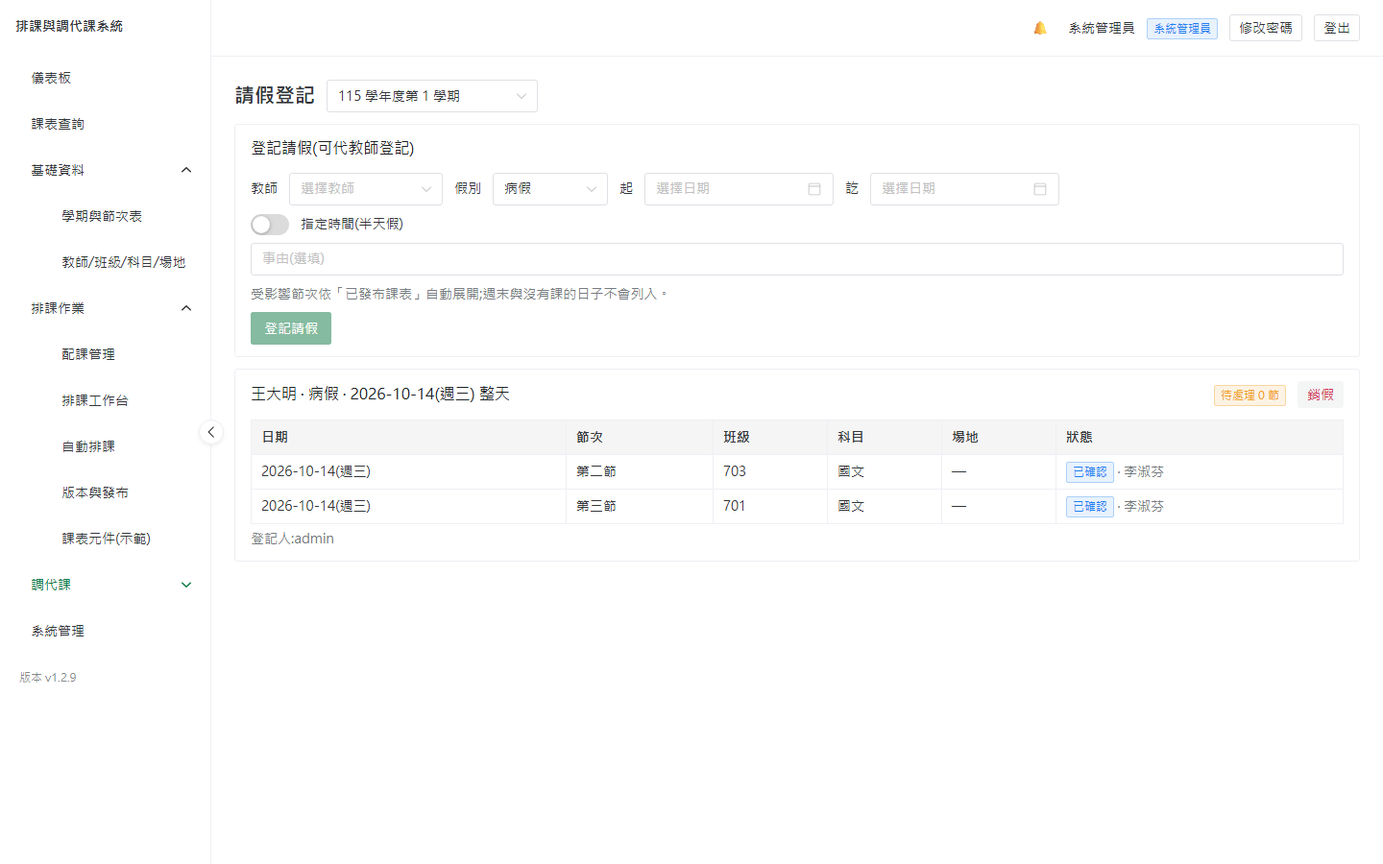
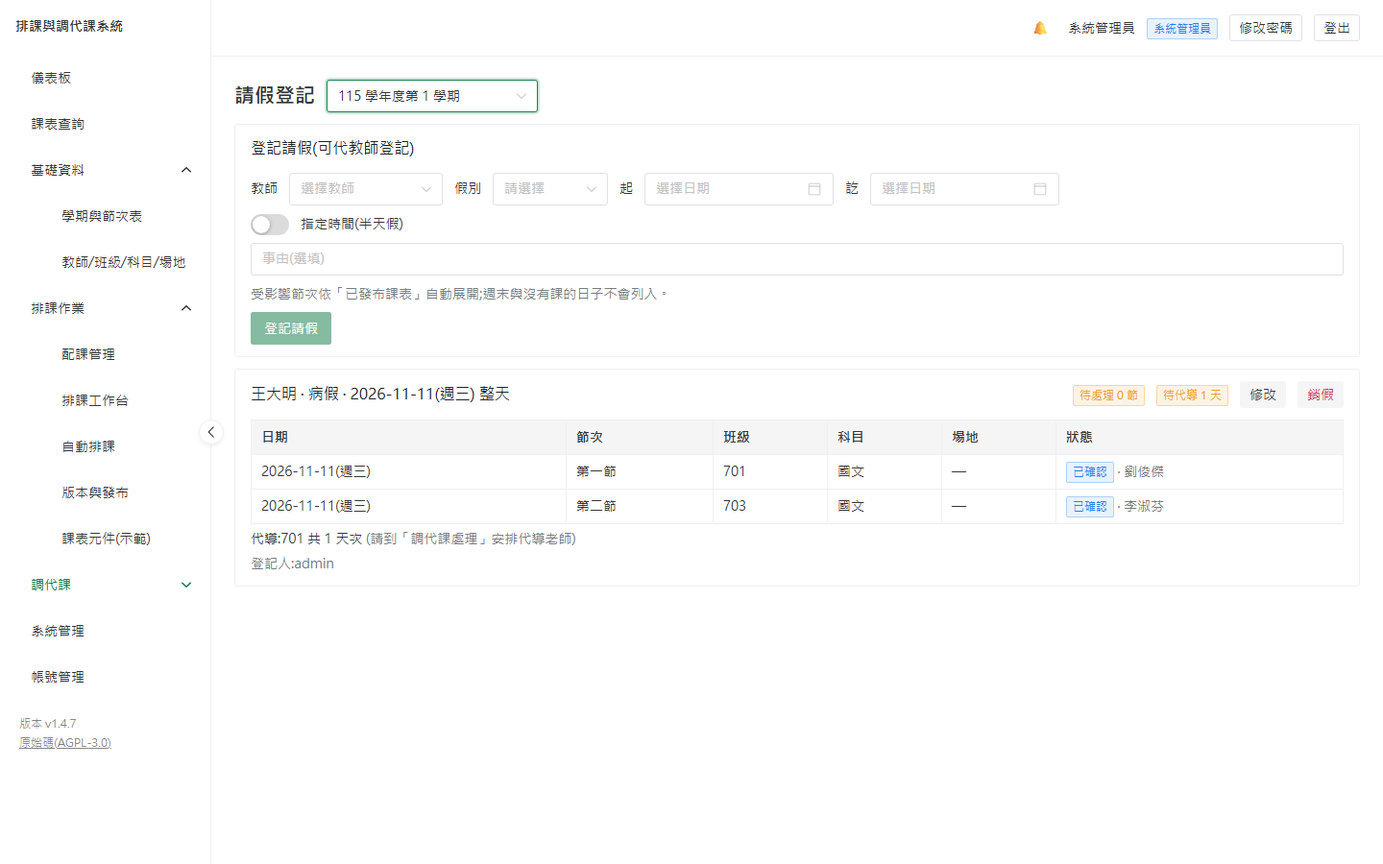
docs(manual): 使用手冊截圖全部更新到 v1.4.7,補代導、新增調課、單雙週組、即時概況四張圖
- 14 張截圖以 v1.4.7 正式映像、全新示範站重拍(原為 v1.2.9~v1.2.12)
- 新增 15 代導、16 新增調課(未請假)、17 單雙週組、18 儀表板即時概況
- 圖說改成與畫面一致;工作台的未排課務在右側(原文誤寫左側)
- 8.9 儀表板即時概況移回第 8 章(原本落在第 9 章區塊,目錄會亮錯章)
- 截圖產生器:示範班級設導師、等提示訊息消失再拍、備份卡片捲到可見、
  即時概況以 at 參數固定在請假日上午,不受拍攝時間影響

diff --git a/docs/index.html b/docs/index.html
@@ -442,17 +442,17 @@
       <section class="ch" id="manual">
         <div class="ch-head"><span class="ch-num">05</span><h2>手動排課工作台</h2></div>
         <p><span class="path"><b>排課作業</b><i>›</i><b>排課工作台</b></span></p>
-        <p>工作台是一張<strong>拖拉式週課表</strong>。左側是還沒排的課務清單(附剩餘節數),你把課拖進格子裡即可。適合微調,或想完全手動掌控時使用。</p>
+        <p>工作台是一張<strong>拖拉式週課表</strong>。右側是還沒排的課務清單(附剩餘節數),你把課拖進格子裡即可。適合微調,或想完全手動掌控時使用。</p>
 
         <h3>基本操作</h3>
         <ol class="steps">
-          <li><span class="st-t">從左側清單拖曳</span>——把一筆未排課務拖進課表格子。</li>
+          <li><span class="st-t">從右側清單拖曳</span>——把一筆未排課務拖進課表格子。</li>
           <li><span class="st-t">看即時衝突</span>——可放的位置顯示綠框;有衝突顯示<strong>紅框</strong>,滑上去會浮出原因(用節次名稱說明,如「王老師 週一第一節 已有 302 班數學」)。</li>
           <li><span class="st-t">鎖定重要格位</span>——不希望被更動的課,點鎖定圖示固定住。</li>
-          <li><span class="st-t">移除</span>——把格子裡的課拖回左側清單即取消。</li>
+          <li><span class="st-t">移除</span>——把格子裡的課拖回右側清單即取消。</li>
           <li><span class="st-t">課務很多時</span>——未排清單會自己捲動,課表格固定在畫面上,捲到最底下的卡片一樣拖得進去。</li>
         </ol>
-        <figure class="shot"><img src="manual-img/04-workbench.png" alt="排課工作台(左側未排清單 + 週課表,含一個衝突紅框)" loading="lazy"><figcaption><b>排課工作台</b>(左側未排清單 + 週課表,含一個衝突紅框)</figcaption></figure>
+        <figure class="shot"><img src="manual-img/04-workbench.png" alt="排課工作台(週課表 + 右側未排課務,排到一半的狀態)" loading="lazy"><figcaption><b>排課工作台</b>(週課表 + 右側未排課務,排到一半的狀態)</figcaption></figure>
 
         <h3>好用的輔助</h3>
         <ul>
@@ -502,7 +502,7 @@
           <li><span class="st-t">舊版自動封存</span>——發布新版後,同學期原本已發布的那份會轉為「已封存」。</li>
         </ol>
         <div class="cal note"><div class="lab">📌 為什麼排好的課表還會有衝突</div><p>手動拖放每一步都有檢查、自動排課排出來的也一定合規,所以衝突幾乎都是<strong>課表排好之後又改了資料</strong>造成的:事後把某節設成教師「不可排」、改了配課的任課教師或每週節數、調低每日上限。系統不會自動調動已排的課,只會在「檢查課表」與發布時列出來,由你決定怎麼處理。</p><p>另外,在「教師 → 時段規則」儲存不可排時段時,如果這位老師在那些時段已經有課,<strong>儲存當下就會提示</strong>是哪份課表的哪幾節(規則仍會存好)。</p></div>
-        <figure class="shot"><img src="manual-img/06-versions.png" alt="版本與發布頁(草稿列表,狀態顯示草稿/已發布/已封存)" loading="lazy"><figcaption><b>版本與發布</b>頁(草稿列表,狀態顯示草稿/已發布/已封存)</figcaption></figure>
+        <figure class="shot"><img src="manual-img/06-versions.png" alt="版本與發布頁(草稿列表,自排結果已發布)" loading="lazy"><figcaption><b>版本與發布</b>頁(草稿列表,自排結果已發布)</figcaption></figure>
 
         <div class="cal note"><div class="lab">📌 已發布課表是「定格快照」</div><p>發布後那份課表就固定下來,即使你之後改草稿也不影響它——這樣調代課才有穩定的依據。要更新,就發布新的一份。</p></div>
 
@@ -581,6 +581,7 @@
             <li><strong>代導通知單</strong>:一位代導老師一張,列出日期、時段、班級、原導師與假別,下方有簽收欄。可在單一天旁、假單卡片右上角「列印代導單(N 天)」,或到「調代課紀錄」篩出一週後一次印。</li>
           </ul>
           <p>導師請長假、由另一位老師代理整段時間時,不必每天安排代導:直接到 <span class="path"><b>基礎資料</b><i>›</i><b>班級</b></span> 改該班的導師即可。</p></div>
+        <figure class="shot"><img src="manual-img/15-homeroom-cover.png" alt="調代課處理:導師請假時,假單下方的代導區,展開安排代導" loading="lazy"><figcaption><b>代導</b>:王大明是 701 導師,請假那天假單下方多一區「代導」,點「安排代導」選老師</figcaption></figure>
         <figure class="shot"><img src="manual-img/13-substitute-slips.png" alt="教師代課通知單的列印頁:週課表格式,表頭寫代課教師、請假教師、假別與計費方式" loading="lazy"><figcaption><b>代課通知單</b>列印頁(教師單;往下捲是班級單,按右上角「列印」即可)</figcaption></figure>
 
         <h3>8.3 調課</h3>
@@ -613,13 +614,14 @@
             <li><span class="st-t">按「下一步:選對調節次」</span>——直接列出可以對調的節次,點一個就成立,和一般調課一樣可以印調課單。</li>
           </ol>
           <p>這種調課<strong>只能選調課</strong>(沒有代課、併班、自習),<strong>不算請假</strong>:不會出現在「請假登記」,也不產生代導。要取消時,按卡片右上角的「<strong>取消這筆調課</strong>」。</p></div>
+        <figure class="shot"><img src="manual-img/16-new-swap.png" alt="新增調課(未請假)對話框:選老師、日期,勾要調的節次" loading="lazy"><figcaption><b>新增調課(未請假)</b>:選老師、日期,勾要調的節次,再按「下一步:選對調節次」</figcaption></figure>
         <h3>8.4 通知與確認</h3>
         <p>指派後,代課老師會收到<strong>站內通知</strong>(右上角鈴鐺,含未讀數),若有設定 SMTP 也會收到 <strong>Email</strong>。老師點開可一鍵「確認收到」。</p>
         <p>你可在 <span class="path"><b>調代課</b><i>›</i><b>通知確認看板</b></span> 看到每一筆的確認狀態,對還沒確認的人一鍵「再次提醒」。</p>
 
         <h3>8.5 今日調代課看板</h3>
         <p><span class="path"><b>調代課</b><i>›</i><b>今日調代課</b></span>(儀表板上也有)——一眼看到今天全部異動:誰代誰的課、誰和誰調課、教室有沒有變。可<strong>列印 A4 公告單</strong>(傳統公告格式)貼出來或發群組。導師請假的班,下方另有「<strong>今日代導</strong>」表,寫出由誰代導(v1.4.0)。</p>
-        <figure class="shot"><img src="manual-img/08-daily-board.png" alt="今日調代課看板與 A4 列印通知單" loading="lazy"><figcaption><b>今日調代課看板</b>與 <b>A4 列印通知單</b></figcaption></figure>
+        <figure class="shot"><img src="manual-img/08-daily-board.png" alt="今日調代課看板(上方可列印通知單、巡堂表)" loading="lazy"><figcaption><b>今日調代課看板</b>(上方可列印通知單、巡堂表)</figcaption></figure>
 
         <h3>8.6 調代課紀錄</h3>
         <p><span class="path"><b>調代課</b><i>›</i><b>調代課紀錄</b></span>——歷史查詢,可依教師、日期、假別篩選。查一位老師時,他「缺的課」和他「代的課」都會出現。篩選結果裡有調課時,可以直接「列印這些紀錄中的調課單」。代導另列在下方的「代導紀錄」,也可以「列印這些紀錄中的代導單」(v1.4.0)。</p>
@@ -638,16 +640,6 @@
         <p><strong>想先改再印?用 Excel。</strong>同一組按鈕旁邊有<strong>「當天 Excel」</strong>與<strong>「整週 Excel」</strong>,下載的活頁簿內容與列印頁相同:每天的上午、下午各一個分頁,社團巡堂單另外成頁。可以自己增減欄位、填上巡堂人員或值日,或併進學校原本的巡堂紀錄檔;分頁已設成 A4 橫向一頁寬,不改也能直接印。匯出之後若又有新的調代課,檔案不會跟著變,請重新匯出。</p>
         <div class="cal tip"><div class="lab">💡 提示</div><p>表格下方的「記錄說明」(授課情形、學生學習的代碼)各校不同,系統管理員可到 <span class="path"><b>系統管理</b><i>›</i><b>巡堂表</b></span> 改成貴校的寫法。教室欄只會印出配課時有指定場地的課,其餘留白手寫。巡堂人員不在表上——那一欄是簽名欄。</p></div>
 
-        <div class="cal scene"><div class="lab">🎬 情境:老師今早臨時請病假</div>
-          <p>① 到「請假登記」幫他登病假(今天整天)→ 系統列出他今天 4 節課。② 到「調代課處理」逐節選代課,從推薦清單各挑一位有空同科的老師。③ 對方收到通知、確認收到。④ 到「今日調代課」列印公告單。⑤ 月底「代課鐘點統計」自動把這幾節算進代課老師的鐘點。全程不到幾分鐘。</p>
-        </div>
-        <div class="cal scene"><div class="lab">🎬 情境:老師下週三要出公差,想跟同班老師調課</div>
-          <p>① 到「請假登記」幫王老師登公假(下週三)。② 到「調代課處理」點週三第一節 701 國文的「處理」→「調課」。③ 清單上看到陳老師(也教 701)週四第二節數學有空,點下去。④ 陳老師週三第一節進 701 上課,王老師週四第二節回 701 上課——兩人都收到通知,學生只是兩科前後對換。</p>
-        </div>
-      </section>
-
-      <!-- 09 -->
-      <section class="ch" id="export">
         <h3>8.9 儀表板即時概況(v1.3.3)</h3>
         <p>登入後的<strong>儀表板</strong>多了「<strong>即時概況</strong>」:現在這一節,每一班實際在上什麼課、誰在上。和巡堂表一樣,已經套用當天的調代課——代課、調課、請假待處理的班級會用橘框標出來,紅色的「請假待處理」代表那一節還沒安排人。</p>
         <ul>
@@ -658,6 +650,18 @@
           <li>教學組長、教務主任、系統管理員看得到;一般教師的儀表板不顯示。</li>
         </ul>
         <div class="cal note"><div class="lab">📌 需要節次表的上下課時間</div><p>系統是用節次表的上下課時間判斷「現在是第幾節」。節次表沒填時間的話,會請你到 <span class="path"><b>基礎資料</b><i>›</i><b>學期與節次表</b></span> 補上。用系統範本建立的節次表都已經有時間。</p></div>
+        <figure class="shot"><img src="manual-img/18-dashboard-live.png" alt="儀表板即時概況:上課中第二節,各班在上的課與代課" loading="lazy"><figcaption><b>儀表板即時概況</b>:上課中的這一節各班在上什麼、誰在上;有代課的班會標出來</figcaption></figure>
+
+        <div class="cal scene"><div class="lab">🎬 情境:老師今早臨時請病假</div>
+          <p>① 到「請假登記」幫他登病假(今天整天)→ 系統列出他今天 4 節課。② 到「調代課處理」逐節選代課,從推薦清單各挑一位有空同科的老師。③ 對方收到通知、確認收到。④ 到「今日調代課」列印公告單。⑤ 月底「代課鐘點統計」自動把這幾節算進代課老師的鐘點。全程不到幾分鐘。</p>
+        </div>
+        <div class="cal scene"><div class="lab">🎬 情境:老師下週三要出公差,想跟同班老師調課</div>
+          <p>① 到「請假登記」幫王老師登公假(下週三)。② 到「調代課處理」點週三第一節 701 國文的「處理」→「調課」。③ 清單上看到陳老師(也教 701)週四第二節數學有空,點下去。④ 陳老師週三第一節進 701 上課,王老師週四第二節回 701 上課——兩人都收到通知,學生只是兩科前後對換。</p>
+        </div>
+      </section>
+
+      <!-- 09 -->
+      <section class="ch" id="export">
 
         <div class="ch-head"><span class="ch-num">09</span><h2>匯出課表</h2></div>
         <p>已發布的課表可從 <span class="path"><b>課表查詢</b></span> 頁的匯出按鈕輸出成多種格式。</p>
@@ -674,7 +678,7 @@
           <p>選 PDF 時要在背景產生,全校約十幾秒,按鈕會轉圈,請稍候(v1.4.6 起)。</p>
           <p>範圍是<strong>在職教師</strong>,依姓名排序;<strong>沒有排到課的在職老師也會有一張(空白)課表</strong>,確保發放時不會漏人。設為非在職的教師不列入。場地視角沒有這兩個按鈕。</p></div>
         <div class="cal note"><div class="lab">📌 權限</div><p>單一課表所有登入者都能匯出(課表本就全校可查);全校總表與批次打包限教學組長以上。檔名為中文,直接就能歸檔。</p></div>
-        <figure class="shot"><img src="manual-img/09-timetable-query.png" alt="課表查詢頁的匯出按鈕與匯出的 PDF 課表" loading="lazy"><figcaption><b>課表查詢</b>頁的匯出按鈕與匯出的 PDF 課表</figcaption></figure>
+        <figure class="shot"><img src="manual-img/09-timetable-query.png" alt="課表查詢頁與匯出按鈕(目前課表、全校總表、批次 zip)" loading="lazy"><figcaption><b>課表查詢</b>頁與匯出按鈕(目前課表、全校總表、批次 zip)</figcaption></figure>
       </section>
 
       <!-- 10 -->
@@ -720,7 +724,7 @@
         </ul>
         <div class="cal danger"><div class="lab">🛑 小心</div><p>還原會<strong>覆蓋目前所有資料</strong>。務必確認選對備份檔。所幸有「還原前保護」這道自動備份墊底,誤操作仍可救回。</p></div>
         <div class="cal warn"><div class="lab">⚠ 異地備援</div><p>備份檔存在同一台主機。<strong>硬碟壞掉就一起沒了</strong>。請定期把備份檔下載到另一台電腦或雲端硬碟(詳見部署文件的「備份與還原」)。</p></div>
-        <figure class="shot"><img src="manual-img/10-backup.png" alt="系統管理 → 資料備份與還原卡片" loading="lazy"><figcaption><b>系統管理 → 資料備份與還原</b>卡片</figcaption></figure>
+        <figure class="shot"><img src="manual-img/10-backup.png" alt="系統管理 → 資料備份與還原卡片(含備份清單)" loading="lazy"><figcaption><b>系統管理 → 資料備份與還原</b>卡片(含備份清單)</figcaption></figure>
 
         <h3>Email 通知(SMTP,選填)</h3>
         <p>填入學校的 SMTP 主機資訊,調代課通知才會寄 Email。<strong>沒設定也沒關係</strong>——系統照常運作,只是僅有站內鈴鐺通知。可按「寄測試信」當場驗證。</p>
@@ -784,6 +788,7 @@
         <p><strong>系統會自動處理的事</strong>:甲老師單週在 701、雙週在 702 不算衝堂;請假時只列出那一週真的有上的課;代課推薦、調課、今日看板、巡堂表都看當天是單週還是雙週;課表與匯出的格子上下列出「單 生科 甲師」「雙 資科 乙師」。</p>
         <p><strong>鐘點</strong>:隔週的課每筆算一半。甲老師單週 701、雙週 702 各 2 節,合計每週 2 節;如果只有單週那筆(例如年級班數是奇數、落單的那一班),算 1 節。</p>
         <div class="cal note"><div class="lab">📌 注意</div><p>單週、雙週兩筆的<strong>每週節數與連堂要相同</strong>,而且各只能一筆;缺一邊時,排課前檢查會提醒。跑班群組不能同時是單雙週組(例如「單週社團、雙週班會」目前不支援),Excel 匯入配課也還不能設定單雙週。</p></div>
+        <figure class="shot"><img src="manual-img/17-alternate-weeks.png" alt="配課管理的單雙週組卡片:703 單週藝術、雙週綜合活動" loading="lazy"><figcaption><b>配課管理 → 單雙週組</b>:703 單週上藝術、雙週上綜合活動</figcaption></figure>
 
         <h4>Q. 怎麼設定教學組長、教務主任的帳號?行政職稱填了,登入還是教師</h4>
         <p>「行政職稱」只用在減課與顯示,不會改變登入權限。請系統管理員到 <span class="path"><b>帳號管理</b></span>:組長本身是教師的話,切到「全部帳號」找到他的帳號,按「設定身分」勾選「教學組長」;要另外開帳號就按「新增帳號」(見第 10 章)。v1.3.0 以前沒有這個畫面,請先用安裝時的系統管理員帳號操作,或升級到 v1.3.1。</p>
@@ -811,7 +816,7 @@
 
         <div class="foot">
           <p>排課與調代課系統 · 教學組長操作手冊 · v1.1 ·  開源免費(AGPL-3.0)· 單校自架</p>
-          <p>本手冊隨系統版本更新;截圖對應系統 v1.2.9(8.8 巡堂表為 v1.2.12),文字內容已更新至 v1.4.7。</p>
+          <p>本手冊隨系統版本更新;截圖與文字內容皆對應系統 v1.4.7。</p>
         </div>
       </section>
 

diff --git a/frontend/e2e/manual-shots.spec.ts b/frontend/e2e/manual-shots.spec.ts
@@ -4,14 +4,14 @@ import { iso, onOrAfter } from './dates'
 
 // 操作手冊補圖產生器(不是驗收測試,CI 不跑)。對示範站逐頁截圖 → docs/manual-img/。
 //
-// 重拍全部 14 張(整套流程約 1 分鐘):
+// 重拍全部 18 張(整套流程約 1 分鐘):
 //   1) 起一套**全新**的棧(空資料庫),.env 設 ADMIN_PASSWORD=DemoSetup2026!,例如
 //        docker compose -p manual --env-file <你的.env> up -d
 //   2) E2E_BASE_URL=http://localhost:<port> npm run e2e:manual
 //
 // 兩支測試對站台狀態的要求不同,故分開(執行順序即檔案順序,workers=1):
 //   01–02:需**精靈尚未完成**的全新站台。
-//   03–14:自己把示範資料備齊(冪等),再逐頁截圖。
+//   03–18:自己把示範資料備齊(冪等),再逐頁截圖。
 //
 // 示範資料與改密都刻意做在這支 spec 裡、不靠外部腳本:上一次是臨時手動灌的,
 // 結果要重拍時沒人知道當初的資料長什麼樣子,只好整套重猜一遍。
@@ -56,6 +56,11 @@ async function pickLeaveDay(page: Page, sid: number): Promise<string> {
     throw new Error(`示範學期(${sem.start_date}~${sem.end_date})已過期,請以空資料庫重跑`)
   }
   return iso(wed)
+}
+
+/** 等右上角的提示訊息(「已產生…」「已發布…」)消失再截圖,畫面才乾淨。 */
+async function waitToastGone(page: Page) {
+  await expect(page.locator('.n-message')).toHaveCount(0, { timeout: 15_000 })
 }
 
 async function selectSemester(page: Page) {
@@ -104,10 +109,14 @@ async function ensureDemoData(page: Page): Promise<number> {
     tid[name] = t.id
   }
 
+  // 導師:王大明帶 701,他請假那天就有「代導」可以拍(15)
+  const HOMEROOM: Record<string, string> = { 701: '王大明', 702: '李淑芬', 703: '陳志明' }
   const classes: number[] = []
   for (const name of ['701', '702', '703']) {
-    const c = await post(page, `/api/class-units?semester_id=${sid}`,
-      { grade: 7, name, track: 'junior_high', student_count: 28 })
+    const c = await post(page, `/api/class-units?semester_id=${sid}`, {
+      grade: 7, name, track: 'junior_high', student_count: 28,
+      homeroom_teacher_id: tid[HOMEROOM[name]],
+    })
     classes.push(c.id)
   }
 
@@ -197,7 +206,7 @@ test('產生操作手冊截圖(01–02,需全新未設定站台)', async ({ page
   await page.screenshot({ path: `${SHOTS}/02-wizard.png` })
 })
 
-test('產生操作手冊截圖(03–14)', async ({ page }) => {
+test('產生操作手冊截圖(03–18)', async ({ page }) => {
   test.setTimeout(300_000)
 
   await loginAsAdmin(page)
@@ -229,6 +238,7 @@ test('產生操作手冊截圖(03–14)', async ({ page }) => {
     // 3 班的示範學校數秒即解完,等它自己完成即可
     await expect(done).toHaveText('已完成', { timeout: 180_000 })
   }
+  await waitToastGone(page)
   await page.waitForTimeout(700)
   await page.screenshot({ path: `${SHOTS}/05-auto-schedule.png` })
 
@@ -243,6 +253,7 @@ test('產生操作手冊截圖(03–14)', async ({ page }) => {
     if (await force.isVisible().catch(() => false)) await force.click()
     await expect(page.locator('tr', { hasText: '已發布' })).toBeVisible({ timeout: 20_000 })
   }
+  await waitToastGone(page)
   await page.waitForTimeout(600)
   await page.screenshot({ path: `${SHOTS}/06-versions.png` })
 
@@ -277,6 +288,33 @@ test('產生操作手冊截圖(03–14)', async ({ page }) => {
   await page.waitForTimeout(900)
   await page.screenshot({ path: `${SHOTS}/08-daily-board.png` })
 
+  // ── 15 代導(8.2):王大明是 701 導師,整天請假 → 假單下方多一區代導;展開「安排代導」──
+  await page.goto('/substitutions')
+  await selectSemester(page)
+  const sickCard = page.getByTestId('sub-leave').filter({ hasText: '王大明' }).first()
+  await expect(sickCard.getByTestId('sub-covers')).toBeVisible({ timeout: 20_000 })
+  await sickCard.getByTestId('sub-cover-handle').first().click()
+  await expect(sickCard.getByTestId('sub-cover-panel')).toBeVisible()
+  await page.waitForTimeout(700)
+  await page.screenshot({ path: `${SHOTS}/15-homeroom-cover.png` })
+
+  // ── 16 新增調課(未請假)(8.3):選老師、日期、勾一節;只截對話框,不真的建立 ──
+  await page.reload()
+  await selectSemester(page)
+  await page.getByTestId('sub-new-swap').click()
+  await page.getByTestId('sub-ns-teacher').click()
+  await page.locator('.n-base-select-option', { hasText: '陳志明' }).click()
+  const nsDate = page.getByTestId('sub-ns-date').locator('input')
+  await nsDate.click()
+  await nsDate.fill(leaveDay)
+  await nsDate.press('Enter')
+  const nsBoxes = page.getByTestId('sub-ns-period')
+  await expect(nsBoxes.first()).toBeVisible({ timeout: 20_000 })
+  await nsBoxes.first().click()
+  await page.waitForTimeout(700)
+  await page.screenshot({ path: `${SHOTS}/16-new-swap.png` })
+  await page.keyboard.press('Escape')
+
   // ── 09 課表查詢(含匯出按鈕)──
   await page.goto(`/timetable-query?semester_id=${sid}`)
   await expect(page.getByRole('heading', { name: '課表查詢' })).toBeVisible({ timeout: 20_000 })
@@ -291,6 +329,9 @@ test('產生操作手冊截圖(03–14)', async ({ page }) => {
     await page.getByTestId('backup-now').click()
     await expect(rows.first()).toBeVisible({ timeout: 60_000 })
   }
+  await waitToastGone(page)
+  // 備份卡片在系統管理頁的下半部;捲到它,截圖才看得到備份清單
+  await page.getByTestId('backup-card').scrollIntoViewIfNeeded()
   await page.waitForTimeout(700)
   await page.screenshot({ path: `${SHOTS}/10-backup.png` })
 
@@ -347,4 +388,48 @@ test('產生操作手冊截圖(03–14)', async ({ page }) => {
   await expect(page.getByTestId('patrol-page').first()).toBeVisible({ timeout: 20_000 })
   await page.waitForTimeout(700)
   await page.screenshot({ path: `${SHOTS}/14-patrol-sheet.png` })
+
+  // ── 17 單雙週組(4 章):703 單週藝術、雙週綜合活動(放在最後,前面的截圖不受影響)──
+  const q = `?semester_id=${sid}`
+  if (!(await get(page, `/api/alternate-units${q}`)).length) {
+    const cls = (await get(page, `/api/class-units${q}`)).find((c: { name: string }) => c.name === '703')
+    const subs: Record<string, number> = {}
+    for (const x of await get(page, `/api/subjects${q}`)) subs[x.name] = x.id
+    const tids: Record<string, number> = {}
+    for (const t of await get(page, `/api/teachers${q}`)) tids[t.name] = t.id
+    const unit = await post(page, `/api/alternate-units${q}`, { class_id: cls.id })
+    for (const [subject, teacher, week] of [['藝術', '劉俊傑', 'odd'], ['綜合活動', '吳雅玲', 'even']]) {
+      await post(page, `/api/assignments${q}`, {
+        scheduling_unit_id: unit.id, subject_id: subs[subject], periods_per_week: 1,
+        teachers: [{ teacher_id: tids[teacher], is_lead: true }], block_rules: [], week_parity: week,
+      })
+    }
+  }
+  await page.goto('/scheduling/assignments')
+  await selectSemester(page)
+  const altList = page.getByTestId('alt-list')
+  await expect(altList).toBeVisible({ timeout: 20_000 })
+  await altList.scrollIntoViewIfNeeded()
+  await page.waitForTimeout(700)
+  await page.screenshot({ path: `${SHOTS}/17-alternate-weeks.png` })
+
+  // ── 18 儀表板即時概況(8.9):把時刻換成請假日上午第二節(703 由代課老師上)──
+  // API 支援 at 參數(預覽用);畫面不帶,這裡攔下請求補上,截圖才不受拍攝當下的時間影響。
+  await page.route('**/api/live-overview?**', (route) => {
+    const u = new URL(route.request().url())
+    u.searchParams.set('at', `${leaveDay}T09:30:00`)
+    return route.continue({ url: u.toString() })
+  })
+  // 下方「今日調代課」也換成同一天,上下兩張卡才對得起來
+  await page.route('**/api/daily-board?**', (route) => {
+    const u = new URL(route.request().url())
+    u.searchParams.set('on', leaveDay)
+    return route.continue({ url: u.toString() })
+  })
+  await page.goto('/')
+  const live = page.getByTestId('dash-live')
+  await expect(live.getByTestId('live-period').first()).toBeVisible({ timeout: 20_000 })
+  await live.scrollIntoViewIfNeeded()
+  await page.waitForTimeout(700)
+  await page.screenshot({ path: `${SHOTS}/18-dashboard-live.png` })
 })
